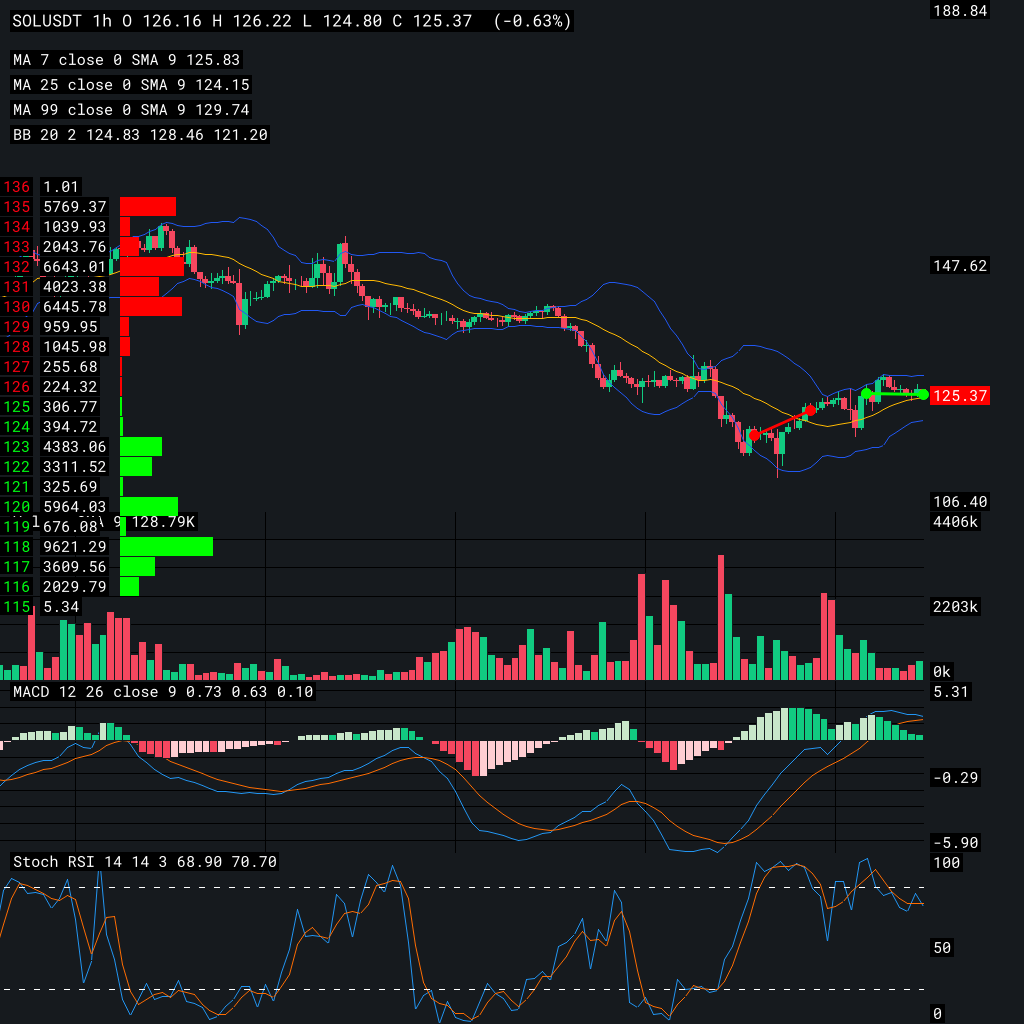
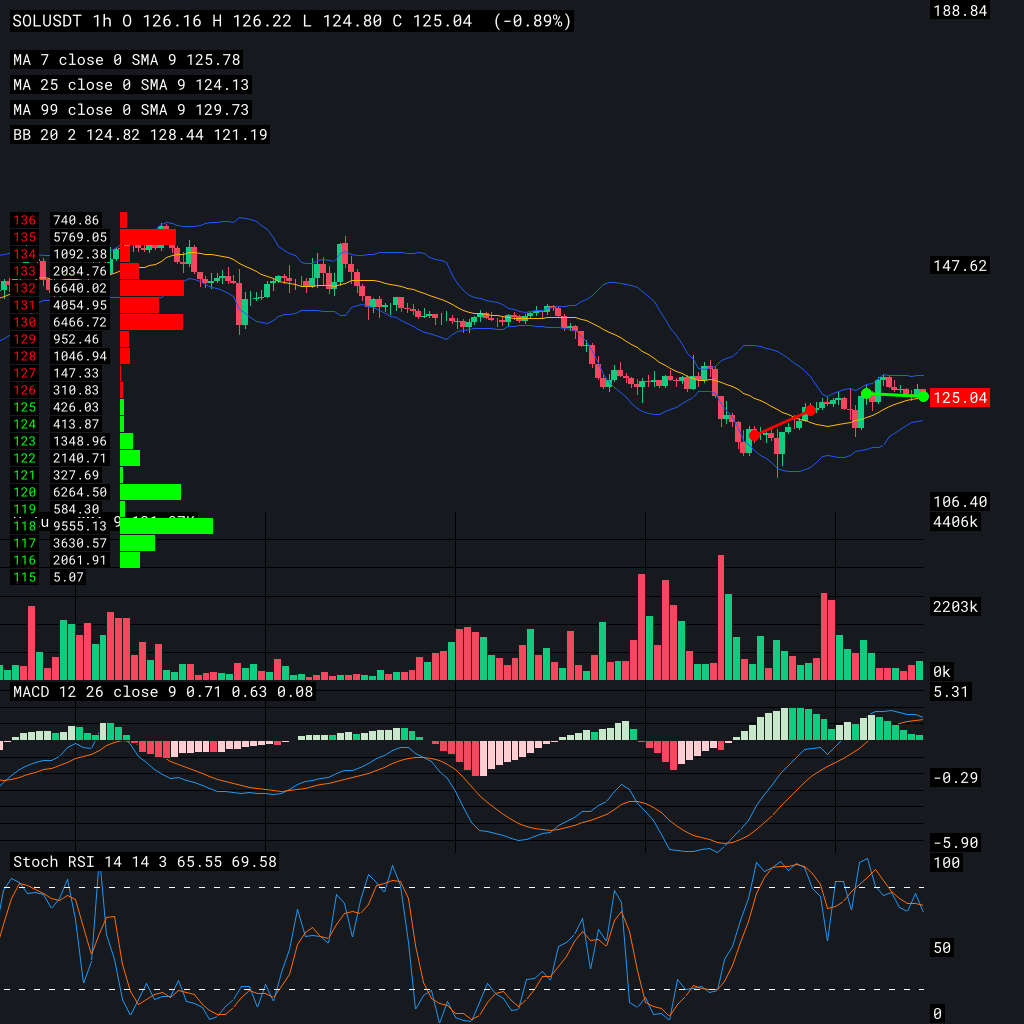
wip: before move to the right

diff --git a/feeder/src/charts/painters.rs b/feeder/src/charts/painters.rs
@@ -50,6 +50,7 @@ const TRANSPARENT_RED: Rgb<u8> = Rgb([255, 0, 0]);
 // Order
 const BID_COLOR: RGBColor = RGBColor(0, 255, 0);
 const ASK_COLOR: RGBColor = RGBColor(255, 0, 0);
+const ORDER_LABEL_SCALE: PxScale = PxScale { x: 17.0, y: 17.0 };
 
 pub fn draw_chart(
     root: &mut DrawingArea<BitMapBackend<'_>, plotters::coord::Shift>,
@@ -1041,7 +1042,7 @@ pub fn draw_order_book(
 
     // Prepare position for the histogram
     let mut current_y = 0u32;
-    let rect_height = 19u32;
+    let rect_height = 16u32;
     let offset_y =
         current_price_y - rect_height as i32 * (bid_data.len() as i32 + ask_data.len() as i32) / 2;
     let factor = 10f32;
@@ -1103,7 +1104,7 @@ pub fn draw_order_book(
 
     // Reset
     let mut current_y = 0u32;
-    let offset_x = 0;
+    let offset_x = 10;
 
     let NUM_WHITE = Rgb([255, 255, 255]);
     let NUM_RED = Rgb([255, 0, 20]);
@@ -1118,7 +1119,7 @@ pub fn draw_order_book(
                 &format!("{:.0}", price),
                 offset_x as i32,
                 offset_y + current_y as i32,
-                LABEL_SCALE,
+                ORDER_LABEL_SCALE,
                 NUM_RED,
                 TRANSPARENT_BLACK_50,
             )?;
@@ -1129,7 +1130,7 @@ pub fn draw_order_book(
                 &format!("{:.2}", volume),
                 (current_x + offset_x) as i32,
                 offset_y + current_y as i32,
-                LABEL_SCALE,
+                ORDER_LABEL_SCALE,
                 NUM_WHITE,
                 TRANSPARENT_BLACK_50,
             )?;
@@ -1146,7 +1147,7 @@ pub fn draw_order_book(
                 &format!("{:.0}", price),
                 offset_x as i32,
                 offset_y + current_y as i32,
-                LABEL_SCALE,
+                ORDER_LABEL_SCALE,
                 NUM_GREEN,
                 TRANSPARENT_BLACK_50,
             )?;
@@ -1157,7 +1158,7 @@ pub fn draw_order_book(
                 &format!("{:.2}", volume),
                 (current_x + offset_x) as i32,
                 offset_y + current_y as i32,
-                LABEL_SCALE,
+                ORDER_LABEL_SCALE,
                 NUM_WHITE,
                 TRANSPARENT_BLACK_50,
             )?;
